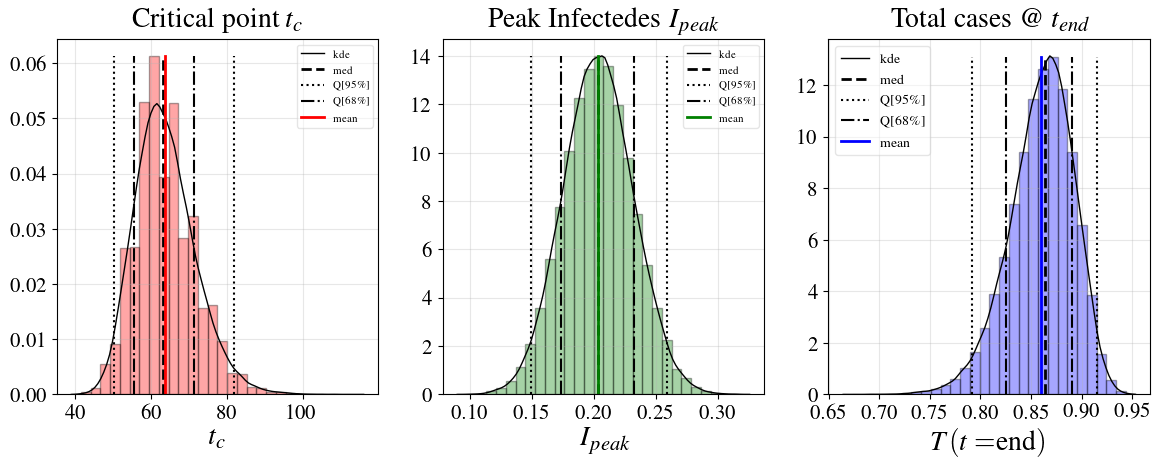
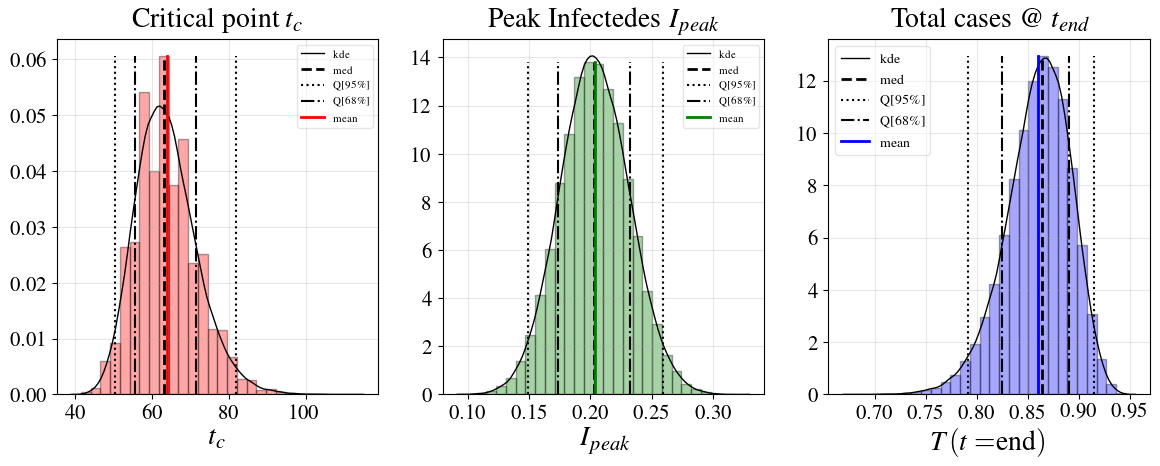
Some changes

diff --git a/epimodels/plots.py b/epimodels/plots.py
@@ -143,18 +143,24 @@ def computeCriticalPointsStats(SIR_params, CO_samples, plot_options, **kwargs):
     ############################################################################################################
 
     ##### Stats on inputs to model #####
-    beta_bar, beta_med, beta_std, beta_upper95, beta_lower95 = computeStats(beta_samples, bound_type='Quantiles', bound_param = [0.025, 0.975])
-    _, _, _, beta_upper68, beta_lower68 = computeStats(beta_samples, bound_type='Quantiles', bound_param = [0.155, 0.835])
+    beta_bar, beta_med, beta_std, beta_upper95, beta_lower95 = computeStats(beta_samples, bound_type='Quantiles', bound_param = [0.0015, 0.9985])
+    _, _, _, beta_upper68, beta_lower68 = computeStats(beta_samples, bound_type='Quantiles', bound_param = [0.025, 0.975])
+    # beta_bar, beta_med, beta_std, beta_upper95, beta_lower95 = computeStats(beta_samples, bound_type='Quantiles', bound_param = [0.025, 0.975])
+    # _, _, _, beta_upper68, beta_lower68 = computeStats(beta_samples, bound_type='Quantiles', bound_param = [0.155, 0.835])
     beta_skew = stats.skew(beta_samples)    
     print('Mean beta=',beta_bar, ' Med beta=', beta_med, 'Skew beta=', beta_skew)
 
-    gamma_inv_bar, gamma_inv_med, gamma_inv_std, gamma_inv_upper95, gamma_inv_lower95 = computeStats(gamma_inv_samples, bound_type='Quantiles', bound_param = [0.025, 0.975])
-    _, _, _, gamma_inv_upper68, gamma_inv_lower68 = computeStats(gamma_inv_samples, bound_type='Quantiles', bound_param = [0.155, 0.835])
+    gamma_inv_bar, gamma_inv_med, gamma_inv_std, gamma_inv_upper95, gamma_inv_lower95 = computeStats(gamma_inv_samples, bound_type='Quantiles', bound_param = [0.0015, 0.9985])
+    _, _, _, gamma_inv_upper68, gamma_inv_lower68 = computeStats(gamma_inv_samples, bound_type='Quantiles', bound_param = [0.025, 0.975])
+    # gamma_inv_bar, gamma_inv_med, gamma_inv_std, gamma_inv_upper95, gamma_inv_lower95 = computeStats(gamma_inv_samples, bound_type='Quantiles', bound_param = [0.025, 0.975])
+    # _, _, _, gamma_inv_upper68, gamma_inv_lower68 = computeStats(gamma_inv_samples, bound_type='Quantiles', bound_param = [0.155, 0.835])
     gamma_inv_skew = stats.skew(gamma_inv_samples)    
     print('Mean gamma_inv=',gamma_inv_bar, ' Med gamma_inv=', gamma_inv_med, 'Skew gamma_inv=', gamma_inv_skew)
 
-    R0_bar, R0_med, R0_std, R0_upper95, R0_lower95 = computeStats(R0_samples, bound_type='Quantiles', bound_param = [0.025, 0.975])
-    _, _, _, R0_upper68, R0_lower68 = computeStats(R0_samples, bound_type='Quantiles', bound_param = [0.155, 0.835])
+    R0_bar, R0_med, R0_std, R0_upper95, R0_lower95 = computeStats(R0_samples, bound_type='Quantiles', bound_param = [0.0015, 0.9985])
+    _, _, _, R0_upper68, R0_lower68 = computeStats(R0_samples, bound_type='Quantiles', bound_param = [0.025, 0.975])
+    # R0_bar, R0_med, R0_std, R0_upper95, R0_lower95 = computeStats(R0_samples, bound_type='Quantiles', bound_param = [0.025, 0.975])
+    # _, _, _, R0_upper68, R0_lower68 = computeStats(R0_samples, bound_type='Quantiles', bound_param = [0.155, 0.835])
     R0_skew = stats.skew(R0_samples)    
     print('Mean tc=',R0_bar, ' Med tc=', R0_med, 'Skew tc=', R0_skew)
 

diff --git a/epimodels/utils.py b/epimodels/utils.py
@@ -98,9 +98,9 @@ def createResultsfile(basefilename = './results/test', append_name= 'results', t
     worksheet = workbook.add_worksheet()
 
     if test_type == 'sampling':    
-        header = ['beta-mean','beta-Q97.5','beta-Q2.5', 'beta-Q83.5', 'beta-Q15.5',
-                  'gamma-inv-mean','gamma-inv-Q97.5','gamma-inv-Q2.5', 'gamma-inv-Q83.5', 'gamma-inv-Q15.5',
-                  'R_0-mean','R_0-Q97.5','R_0-Q2.5', 'R_0-Q83.5', 'R_0-Q15.5',
+        header = ['beta-mean','beta-Q99.85', 'beta-Q0.15', 'beta-Q97.5','beta-Q2.5',
+                  'gamma-inv-mean', 'gamma-inv-Q99.85', 'gamma-inv-Q0.15','gamma-inv-Q97.5','gamma-inv-Q2.5',
+                  'R_0-mean','R_0-Q99.85', 'R_0-Q0.15', 'R_0-Q97.5','R_0-Q2.5',
                   't_c-mean','t_c-Q97.5','t_c-Q2.5', 't_c-Q83.5', 't_c-Q15.5', 
                   'I_peak-mean','I_peak-Q97.5','I_peak-Q2.5', 'I_peak-Q83.5', 'I_peak-Q15.5', 
                   'T_end-mean','T_end-Q97.5','T_end-Q2.5', 'T_end-Q83.5', 'T_end-Q15.5']    
@@ -234,12 +234,12 @@ def gatherMCstats(S_samples, I_samples, R_samples, E_samples = None, bound_type=
 
     # Pack values for plotting and analysis
 
-    S_stats          = np.vstack((S_mean, S_med, S_upper, S_lower))    
-    I_stats          = np.vstack((I_mean, I_med, I_upper, I_lower))    
-    R_stats          = np.vstack((R_mean, R_med, R_upper, R_lower))    
-    T_stats          = np.vstack((T_mean, T_med, T_upper, T_lower))
+    S_stats          = np.vstack((S_mean, S_med, S_upper, S_lower, S_std))    
+    I_stats          = np.vstack((I_mean, I_med, I_upper, I_lower, I_std))    
+    R_stats          = np.vstack((R_mean, R_med, R_upper, R_lower, R_std))    
+    T_stats          = np.vstack((T_mean, T_med, T_upper, T_lower, T_std))
     if not E_samples is None:
-        E_stats      = np.vstack((E_mean, E_med, E_upper, E_lower))
+        E_stats      = np.vstack((E_mean, E_med, E_upper, E_lower, E_std))
     
     if not E_samples is None:
         return S_stats, E_stats, I_stats, R_stats, T_stats

diff --git a/ex1c_sensitivitySampling_vanillaSIR_model.py b/ex1c_sensitivitySampling_vanillaSIR_model.py
@@ -49,8 +49,10 @@ def computeSIR_MCresults(SIR_traces, SIR_params, *prob_params, **sim_kwargs):
         plotSIR_evolutionStochastic(S_stats, I_stats, R_stats, T_stats, plot_options, **sim_kwargs)    
 
         # Plot curves with std error bars [Optional.. for analysis purposes]
-        sim_kwargs["do_std"] = 1
-        plotSIR_evolutionStochastic(S_stats, I_stats, R_stats, T_stats, plot_options, **sim_kwargs)    
+        do_bad_stats = 0
+        if do_bad_stats:
+            sim_kwargs["do_std"] = 1
+            plotSIR_evolutionStochastic(S_stats, I_stats, R_stats, T_stats, plot_options, **sim_kwargs)    
 
 
     if sim_kwargs['viz_plots']:
@@ -111,8 +113,8 @@ def run(prob_type = 'gamma'):
     rollouts  = pow(10,5)
     viz_plots = 0
 
-    # for test_num in [1, 2, 3]:
-    for test_num in [3]:        
+    for test_num in [1, 2, 3]:
+    # for test_num in [3]:        
         prob_params, plot_vars        = getSIRTestingParams(test_num=test_num, prob_type=prob_type,**sim_kwargs)
         
         # unpack plotting and file variables
@@ -135,6 +137,6 @@ if __name__ == '__main__':
     """
 
     run(prob_type = 'gamma')
-    # run(prob_type = 'log-normal')    
+    run(prob_type = 'log-normal')    
     # run(prob_type = 'gaussian')
-    # run(prob_type = 'uniform')
+    # run(prob_type = 'uniform')=

diff --git a/epimodels/stochastic_cambridge.py b/epimodels/stochastic_cambridge.py
@@ -252,8 +252,6 @@ class StochasticCambridge():
         return np.real(np.max(np.linalg.eigvals(L)))
 
         
-                                              
-    
     
     if __name__ == '__main__':
         
